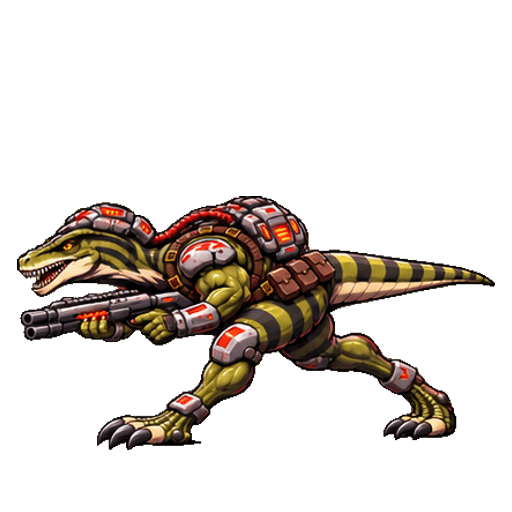
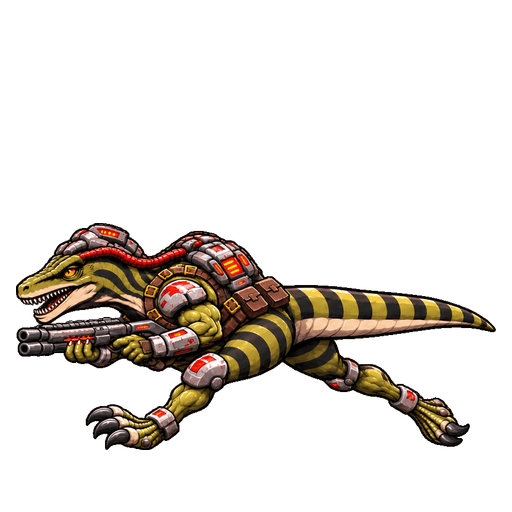
39T5: align left sprint lean and alternating legs; retain explicit acceptance blockers

Changed region(s): [[0.0312, 0.375, 0.9688, 0.875]]

diff --git a/app/studio/character-lab/page.tsx b/app/studio/character-lab/page.tsx
@@ -21,7 +21,7 @@ export default function CombatLab(){
  return <main style={{minHeight:"100vh",background:"#08101b",color:"#f5fbff",fontFamily:"Arial",padding:"max(25px,env(safe-area-inset-top)) 20px"}}>
   <div style={{maxWidth:800,margin:"auto"}}>
    <a href="/studio" style={{color:"#89e9f2"}}>← BACK TO STUDIO</a>
-   <p style={{color:"#ff8d9e",letterSpacing:2,fontSize:12}}>GOD MODE / BUILD 39T4 PLAYTEST</p>
+   <p style={{color:"#ff8d9e",letterSpacing:2,fontSize:12}}>GOD MODE / BUILD 39T5 PLAYTEST</p>
    <h1>COMBAT LAB</h1>
    <a href="/raptor-animation-review.html" style={{color:"#89e9f2"}}>Review all run and slide frames</a>
    <p>Both fighters use the newer XYZ combat engine. This is a test build, not a production character unlock.</p>

diff --git a/docs/raptor-39t-status.md b/docs/raptor-39t-status.md
@@ -1,27 +1,42 @@
-# Raptor 39T3 integration checkpoint
+# Raptor 39T5 integration checkpoint
 
-Status: playable art preview, NOT acceptance-complete.
+Status: playable preview; NOT acceptance-complete.
 
 Base: b513dac8dea33219132c81ae464c8c166188c491 (studio/39r4-39s-cover).
 Recoverable checkpoint: checkpoint/39t-before-cartoon-run-slide.
-Target: existing Raptor character lab only.
+Working branch: studio/39t-cartoon-run-slide. Target: existing Raptor character lab only.
 
-Each of right, front-right, front, front-left, left, back-left, back, back-right has four sprint images and three slide images. Total 32 sprint + 24 slide unique images. Run reuses sprint images; idle reuses slide recovery. 96 runtime paths. Every image is 512x512 transparent PNG with per-frame anchor and SHA256.
+## Installed inventory
 
-39T3 replaces eight rear-diagonal sprint images with back-facing equipment, occluded optic, and opposing extended-leg pairs. No game physics or input changes.
+| Direction | Sprint | Baseball slide |
+|---|---:|---:|
+| Right | 4 | 3 |
+| Front-right | 4 | 3 |
+| Front | 4 | 3 |
+| Front-left | 4 | 3 |
+| Left | 4 | 3 |
+| Back-left | 4 | 3 |
+| Back | 4 | 3 |
+| Back-right | 4 | 3 |
 
-Validation completed:
-- Eight direction mappings and four-phase selection.
-- Slide entry/hold/recovery, recovery-to-run, moving fire, stop, strafe selection.
-- 39T2 Railway build successful and browser loaded all 96 asset paths.
-- Normal Raptor menu boot, keyboard/touch movement, moving-fire input exercised.
+32 sprint + 24 slide unique images. Run shares sprint images; idle shares slide recovery. 96 runtime paths. Every image is a 512x512 transparent PNG with per-frame anchor and SHA256. Installed counts are NOT accepted animation counts.
 
-Outstanding acceptance defects:
-- Front-diagonal run poses still favor the same leading thigh. A targeted four-frame correction was rejected because it repeated the error.
-- Left/right lean and inter-direction body scale need full playback acceptance.
-- Rear-diagonal replacement pairs have potential size/anchor drift; require playback review.
-- Slide rear heels/contact points and recovery transitions need full gameplay validation.
-- Slow/strafe and idle currently borrow frames, not dedicated animation.
-- Physical controller inputs, all eight slide/fire/cancellation scenarios, and sustained captured gameplay matrix are NOT verified.
+39T3 corrected rear-diagonal back equipment and opposing-leg pairs. 39T4 added optional Animation trace showing frames actually painted through normal gameplay. 39T5 corrects left low sprint and alternating legs using right cycle as pose reference while retaining organic left eye. No game physics or input mappings changed.
 
-Do not mark this checkpoint as the requested completed animation release. Do not begin cover-system changes based on this checkpoint.
+## Validation
+
+PASS local frame selection: eight directions, four sprint phases, slide entry/hold/recovery, recovery-to-run, moving fire, stop, strafe.
+PASS file checks: 96 runtime paths, SHA256, 512x512, alpha, anchors (39T3; left replacement uses same extraction pipeline).
+PASS deployed 39T4 normal menu boot and asset preload; keyboard and touch movement respond. Painted-frame trace recorded sprint family in every direction.
+PASS deployed 39T2 review loaded 96 paths with no missing Raptor image; later releases require fresh live recheck.
+
+## Remaining acceptance work
+
+- Front-left/front-right stride still favors the same leading thigh. Multiple correction sheets repeated the error; a single-pose attempt changed head/torso proportions and was rejected. Original provisional frames remain installed.
+- Inter-direction scale, rear pair registration and all transitions still need sustained playback acceptance.
+- Rear slide feet/contact orientation needs full gameplay assessment.
+- Slow movement/strafe and idle borrow poses, not dedicated approved animation.
+- Browser keyboard/touch attempts did not capture a successful full slide sequence in the painted-frame trace. This is unresolved, not a pass or proof the slide mechanics are broken.
+- All eight slide/fire/cancellation scenarios and physical-controller testing remain unverified.
+
+Do not describe this checkpoint as the completed requested release. Cover work has not begun.
